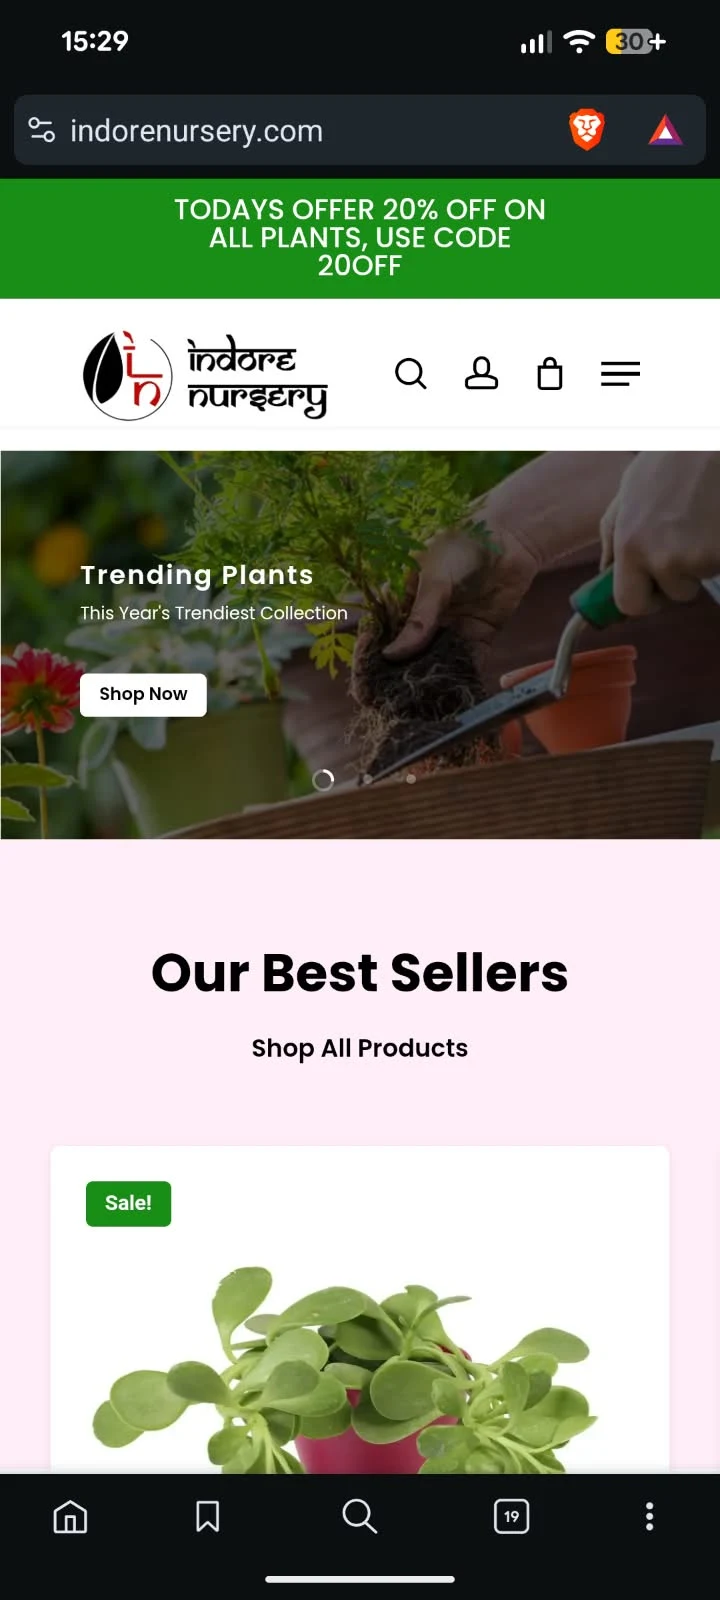
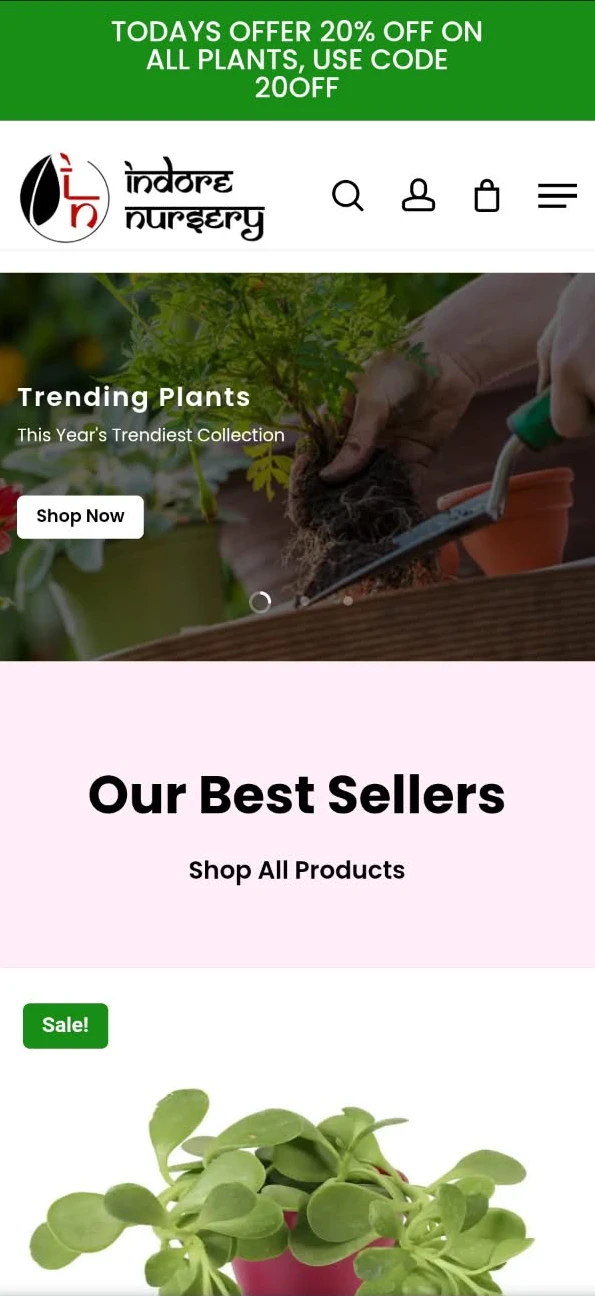
Tighten mobile web phone previews

diff --git a/src/components/work/MobileDeviceFrame.tsx b/src/components/work/MobileDeviceFrame.tsx
@@ -9,17 +9,22 @@ type Props = {
   alt: string;
   fallbackLabel: string;
   className?: string;
+  variant?: "default" | "web";
   priority?: boolean;
 };
 
-export function MobileDeviceFrame({ src, alt, fallbackLabel, className, priority }: Props) {
+export function MobileDeviceFrame({ src, alt, fallbackLabel, className, variant = "default", priority }: Props) {
   const [failed, setFailed] = useState(false);
   const hasImage = src && !failed;
+  const isWeb = variant === "web";
 
   return (
     <div
       className={cn(
-        "relative aspect-[9/19.6] w-full rounded-[1.7rem] border border-white/20 bg-[#070707] p-[1.8%] shadow-[0_18px_45px_rgba(0,0,0,0.34)]",
+        "relative aspect-[9/19.6] w-full border border-white/20 bg-[#070707]",
+        isWeb
+          ? "rounded-[1.3rem] p-[0.8%] shadow-[0_10px_24px_rgba(0,0,0,0.24)]"
+          : "rounded-[1.7rem] p-[1.8%] shadow-[0_18px_45px_rgba(0,0,0,0.34)]",
         "before:absolute before:top-[1.25%] before:left-1/2 before:z-10 before:h-[1.15%] before:w-[20%] before:-translate-x-1/2 before:rounded-full before:bg-white/20",
         "after:absolute after:top-[16%] after:right-[-2px] after:h-[12%] after:w-[2px] after:rounded-r-full after:bg-white/18",
         className,
@@ -27,7 +32,7 @@ export function MobileDeviceFrame({ src, alt, fallbackLabel, className, priority
     >
       <span className="absolute top-[14%] left-[-2px] h-[7%] w-[2px] rounded-l-full bg-white/14" aria-hidden="true" />
       <span className="absolute top-[24%] left-[-2px] h-[7%] w-[2px] rounded-l-full bg-white/12" aria-hidden="true" />
-      <div className="relative h-full overflow-hidden rounded-[1.48rem] bg-[#050505] ring-1 ring-white/12">
+      <div className={cn("relative h-full overflow-hidden bg-[#050505] ring-1 ring-white/12", isWeb ? "rounded-[1.12rem]" : "rounded-[1.48rem]")}>
         {hasImage ? (
           <Image
             src={src}

diff --git a/src/components/project-showcase/ProjectPortfolioCell.tsx b/src/components/project-showcase/ProjectPortfolioCell.tsx
@@ -63,6 +63,7 @@ function WebMedia({ project, priority }: Props) {
           src={project.mobileWebImage}
           alt={`${project.imageAlt} — mobile web`}
           fallbackLabel={`${project.name} mobile web image`}
+          variant="web"
           className="h-[280px] w-auto justify-self-center sm:h-[323px] md:h-[366px] lg:h-[383px] md:justify-self-end"
         />
       ) : null}
